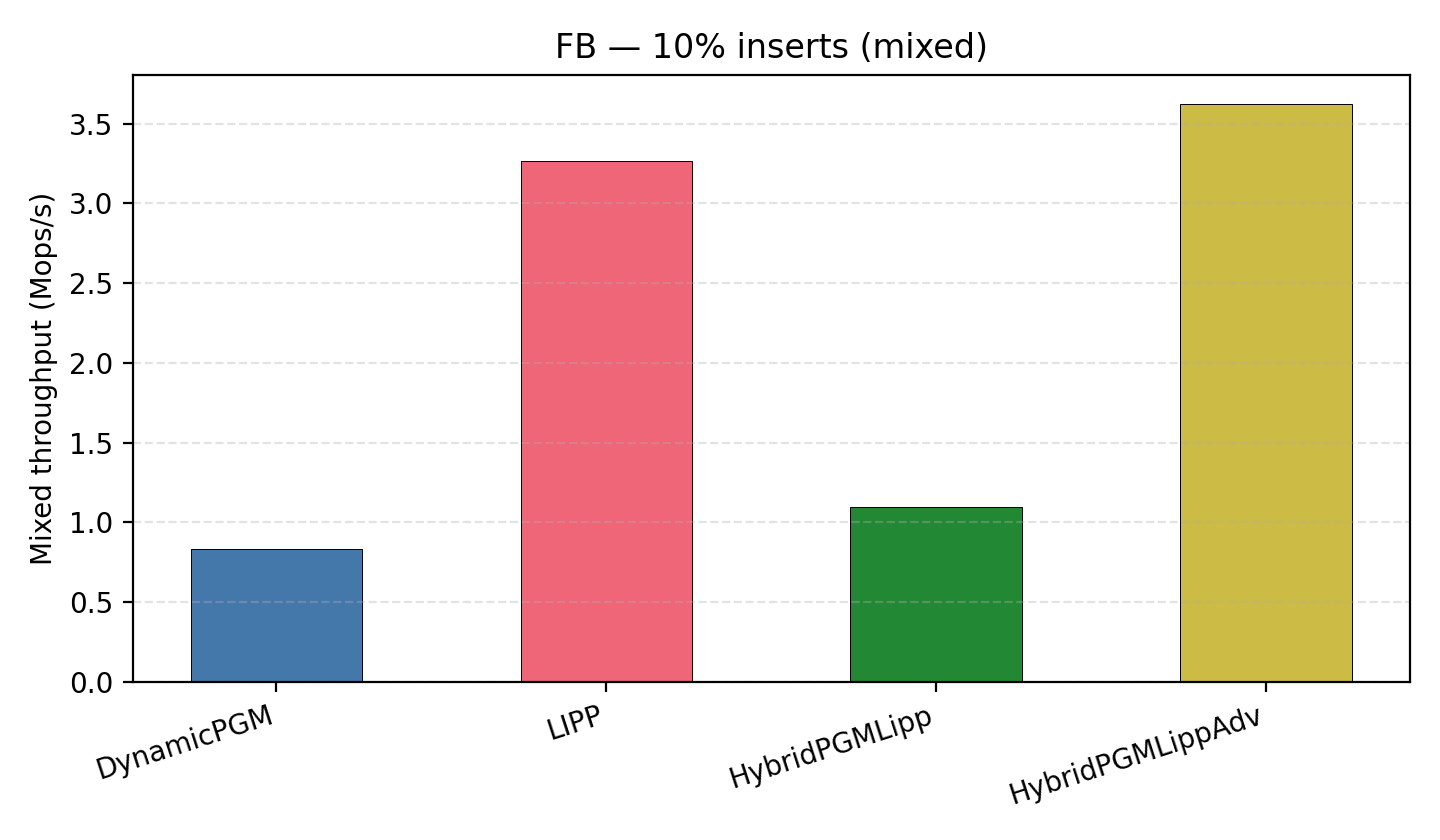
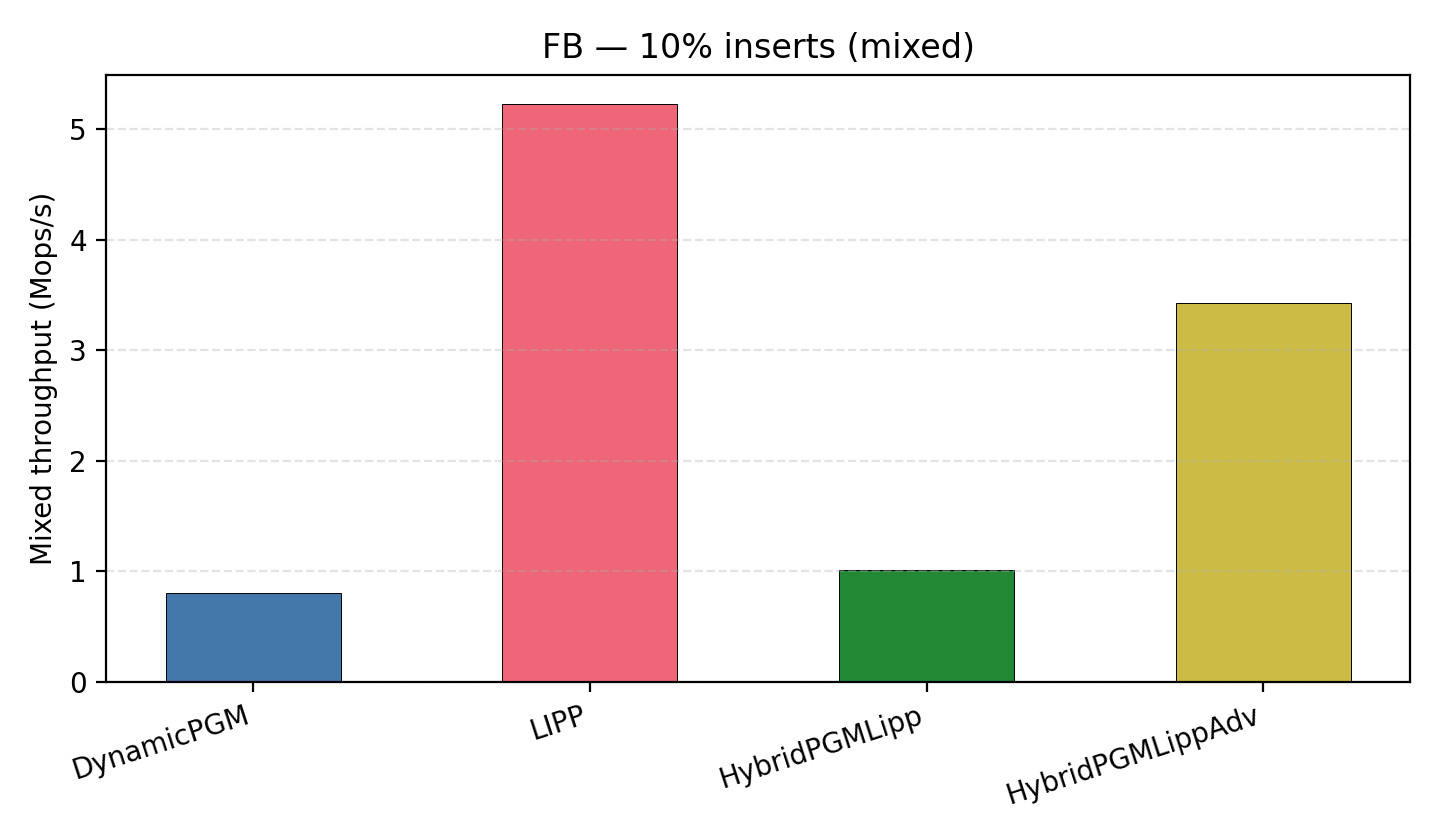
Finalize milestone 3 benchmark artifacts

diff --git a/competitors/hybrid_pgm_lipp_advanced.h b/competitors/hybrid_pgm_lipp_advanced.h
@@ -21,6 +21,74 @@
 #include "fast_membership_filter_uint64.h"
 #include "lipp.h"
 
+class RangeBitmapFilterUint64 {
+ public:
+  void clear() {
+    bits_.clear();
+    min_key_ = 0;
+    max_key_ = 0;
+    shift_ = 0;
+    mask_ = 0;
+  }
+
+  template <class KeyValueVec>
+  void init(const KeyValueVec& data, size_t log2_buckets) {
+    clear();
+    if (data.empty()) return;
+    min_key_ = static_cast<uint64_t>(data.front().key);
+    max_key_ = static_cast<uint64_t>(data.front().key);
+    for (const auto& kv : data) {
+      const uint64_t key = static_cast<uint64_t>(kv.key);
+      if (key < min_key_) min_key_ = key;
+      if (key > max_key_) max_key_ = key;
+    }
+
+    const size_t buckets = size_t{1} << log2_buckets;
+    mask_ = buckets - 1;
+    bits_.assign((buckets + 63) >> 6, 0ULL);
+
+    const uint64_t range = max_key_ - min_key_;
+    size_t range_bits = 0;
+    uint64_t tmp = range;
+    while (tmp > 0) {
+      ++range_bits;
+      tmp >>= 1;
+    }
+    shift_ = range_bits > log2_buckets ? range_bits - log2_buckets : 0;
+
+    for (const auto& kv : data) {
+      add(static_cast<uint64_t>(kv.key));
+    }
+  }
+
+  void add(uint64_t key) {
+    if (bits_.empty()) return;
+    if (key < min_key_ || key > max_key_) return;
+    const size_t bit = bucket(key);
+    bits_[bit >> 6] |= 1ULL << (bit & 63);
+  }
+
+  bool maybe_contains(uint64_t key) const {
+    if (bits_.empty()) return true;
+    if (key < min_key_ || key > max_key_) return true;
+    const size_t bit = bucket(key);
+    return (bits_[bit >> 6] & (1ULL << (bit & 63))) != 0;
+  }
+
+  size_t size_in_bytes() const { return bits_.size() * sizeof(uint64_t); }
+
+ private:
+  size_t bucket(uint64_t key) const {
+    return static_cast<size_t>(((key - min_key_) >> shift_) & mask_);
+  }
+
+  std::vector<uint64_t> bits_;
+  uint64_t min_key_ = 0;
+  uint64_t max_key_ = 0;
+  size_t shift_ = 0;
+  size_t mask_ = 0;
+};
+
 /**
  * Milestone 3 hybrid (Stage 5). Pure DPGM + LIPP design with Bloom-style side
  * filters (bits only) and an asynchronous background drain into LIPP.
@@ -126,7 +194,11 @@ class HybridPGMLippAdv : public Competitor<KeyType, SearchClass> {
   static constexpr double kInsertHeavyThresholdPct = 0.50;
   static constexpr size_t kLookupHeavyActiveCap = kActiveCapDefault;
   static constexpr bool kLookupHeavyLane = pgm_error <= 64;
-  static constexpr bool kUseLippOverlay = kLookupHeavyLane;
+  static constexpr bool kDirectLippLookupHeavy = false;
+  static constexpr bool kUseLippOverlay = false;
+  static constexpr bool kUseRangeBaseFilter = kLookupHeavyLane;
+  static constexpr bool kUseBaseFilter = !kUseRangeBaseFilter && kEnablePrefilter;
+  static constexpr size_t kRangeFilterLog2Buckets = 27;
   mutable size_t warmup_ops_ = 0;
   mutable size_t warmup_inserts_ = 0;
   mutable Mode mode_ = Mode::kUnknown;
@@ -150,6 +222,7 @@ class HybridPGMLippAdv : public Competitor<KeyType, SearchClass> {
   size_t frozen_drain_cursor_ = 0;
 
   FastMembershipFilterUint64 prefilter_;
+  RangeBitmapFilterUint64 range_prefilter_;
 
   size_t drains_since_rebuild_ = 0;
 
@@ -405,7 +478,10 @@ class HybridPGMLippAdv : public Competitor<KeyType, SearchClass> {
     warmup_inserts_ = 0;
 
     prefilter_.clear();
-    if (kEnablePrefilter) {
+    range_prefilter_.clear();
+    if constexpr (kUseRangeBaseFilter) {
+      range_prefilter_.init(data, kRangeFilterLog2Buckets);
+    } else if constexpr (kUseBaseFilter) {
       prefilter_.init(prefilter_capacity(total_size_), kBaseFilterBitsPerKey);
       for (const auto& kv : data) {
         prefilter_.add(static_cast<uint64_t>(kv.key));
@@ -430,11 +506,14 @@ class HybridPGMLippAdv : public Competitor<KeyType, SearchClass> {
     if (mode_ == Mode::kUnknown) {
       ++warmup_ops_;
     }
-    // Both lanes use the bulk-loaded LIPP as the fast base path. The optional
-    // base-membership prefilter is left disabled in the final packaged run
-    // because it was slower than a direct LIPP probe on these traces.
+    // Both lanes use the bulk-loaded LIPP as the fast base path. The
+    // lookup-heavy lane adds a metadata-only base membership filter so true
+    // negative lookups skip expensive LIPP misses.
     bool maybe_in_base = true;
-    if constexpr (kEnablePrefilter) {
+    if constexpr (kUseRangeBaseFilter) {
+      maybe_in_base =
+          range_prefilter_.maybe_contains(static_cast<uint64_t>(lookup_key));
+    } else if constexpr (kUseBaseFilter) {
       maybe_in_base = prefilter_.maybe_contains(static_cast<uint64_t>(lookup_key));
     }
     if (maybe_in_base) {
@@ -493,7 +572,12 @@ class HybridPGMLippAdv : public Competitor<KeyType, SearchClass> {
   }
 
   void Insert(const KeyValue<KeyType>& data, uint32_t thread_id) {
-    if constexpr (kUseLippOverlay) {
+    if constexpr (kDirectLippLookupHeavy) {
+      lipp.Insert(data, thread_id);
+      range_prefilter_.add(static_cast<uint64_t>(data.key));
+      ++total_size_;
+      return;
+    } else if constexpr (kUseLippOverlay) {
       lipp_overlay.Insert(data, thread_id);
     } else {
       pgm_active_.Insert(data, thread_id);
@@ -552,7 +636,7 @@ class HybridPGMLippAdv : public Competitor<KeyType, SearchClass> {
     return pgm_active_.size() + pgm_frozen_.size() + lipp.size() +
            (kUseLippOverlay ? lipp_overlay.size() : 0) +
            bloom_active_.size_in_bytes() + bloom_frozen_.size_in_bytes() +
-           prefilter_.size_in_bytes();
+           prefilter_.size_in_bytes() + range_prefilter_.size_in_bytes();
   }
 };
 
